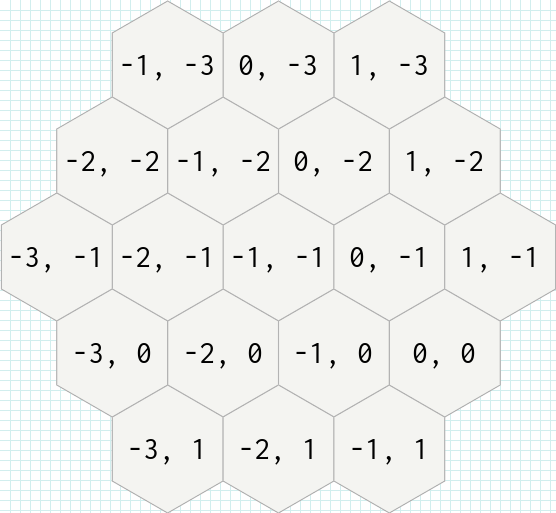
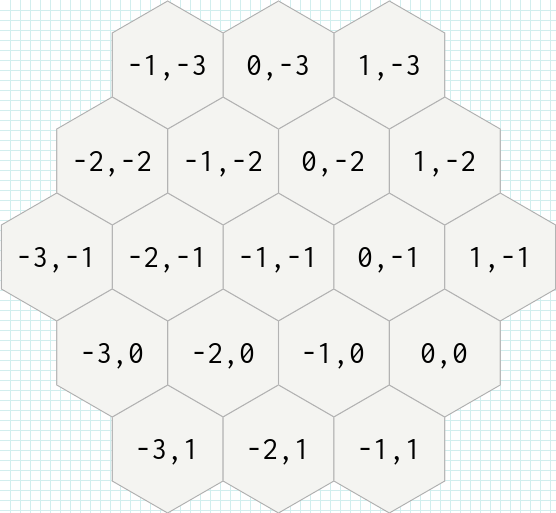
arrows

diff --git a/lib/rhex/draw/arrow.rb b/lib/rhex/draw/arrow.rb
@@ -1,0 +1,69 @@
+# frozen_string_literal: true
+
+module Rhex
+  module Draw
+    # Draws a direction arrow centered on the `from` hex, pointing towards the
+    # `to` hex. Used to visualize the order in which a path traverses hexes.
+    class Arrow
+      extend Forwardable
+
+      DEFAULT_CONFIG = {
+        color: "#1A1A1A",
+        stroke_color: "#1A1A1A",
+        # Roughly matches the rendered weight of the coordinate labels.
+        stroke_width: 2,
+        # Length of the arrow shaft as a fraction of the hex size.
+        length_ratio: 0.5,
+        # Length of each arrowhead barb as a fraction of the hex size.
+        head_ratio: 0.22,
+        # Half-angle of the arrowhead, in degrees.
+        head_angle: 28,
+      }.freeze
+
+      def initialize(gc:, from:, to:, config: DEFAULT_CONFIG)
+        @gc = gc
+        @from = from
+        @to = to
+        @config = config
+      end
+
+      def call
+        angle = Math.atan2(to.coordinates.y - from.coordinates.y, to.coordinates.x - from.coordinates.x)
+
+        # Center the arrow on the edge between the two hexes (their midpoint).
+        mid_x = (from.coordinates.x + to.coordinates.x) / 2.0
+        mid_y = (from.coordinates.y + to.coordinates.y) / 2.0
+
+        half = (from.size * config[:length_ratio]) / 2.0
+        tail_x = mid_x - (Math.cos(angle) * half)
+        tail_y = mid_y - (Math.sin(angle) * half)
+        tip_x = mid_x + (Math.cos(angle) * half)
+        tip_y = mid_y + (Math.sin(angle) * half)
+
+        gc.stroke(config[:stroke_color])
+        gc.stroke_width(config[:stroke_width])
+        gc.fill(config[:color])
+
+        gc.line(tail_x, tail_y, tip_x, tip_y)
+        draw_head(angle, tip_x, tip_y)
+      end
+
+      private
+
+      attr_reader :gc, :from, :to, :config
+
+      def draw_head(angle, tip_x, tip_y)
+        head_length = from.size * config[:head_ratio]
+        head_angle = config[:head_angle] * Rhex::Constants::DEG_TO_RAD
+
+        [angle - head_angle, angle + head_angle].each do |barb_angle|
+          gc.line(
+            tip_x, tip_y,
+            tip_x - (head_length * Math.cos(barb_angle)),
+            tip_y - (head_length * Math.sin(barb_angle))
+          )
+        end
+      end
+    end
+  end
+end

diff --git a/lib/rhex/grid_to_pic.rb b/lib/rhex/grid_to_pic.rb
@@ -17,11 +17,12 @@ module Rhex
     DEFAULT_ORIENTATION = FLAT_TOPPED
     DEFAULT_HEX_SIZE = 64
 
-    def initialize(grid, hex_size: DEFAULT_HEX_SIZE, orientation: DEFAULT_ORIENTATION)
+    def initialize(grid, hex_size: DEFAULT_HEX_SIZE, orientation: DEFAULT_ORIENTATION, path: nil)
       oriented_grid_class = Object.const_get(ORIENTED_GRIDS_MAPPER.fetch(orientation))
       oriented_grid = grid.to_grid(oriented_grid_class, hex_size: hex_size)
 
       @grid = oriented_grid
+      @path = path
       @canvas_markup = Rhex::CanvasMarkups::AutoCanvasMarkup.new(oriented_grid)
     end
 
@@ -30,12 +31,23 @@ module Rhex
 
       grid.each { |hex| Draw::Hexagon.new(gc: gc, hex: hex).call }
 
+      draw_path_arrows
+
       draw_and_save(filename)
     end
 
     private
 
-    attr_reader :grid, :canvas_markup
+    attr_reader :grid, :path, :canvas_markup
+
+    def draw_path_arrows
+      return if path.nil?
+
+      oriented_path = path.filter_map { |hex| grid.fetch(hex) }
+      oriented_path.each_cons(2) do |from, to|
+        Draw::Arrow.new(gc: gc, from: from, to: to).call
+      end
+    end
 
     def_delegators :canvas_markup, :center
     def_delegators :canvas_markup, :cols

diff --git a/spec/lib/rhex/draw/arrow_spec.rb b/spec/lib/rhex/draw/arrow_spec.rb
@@ -1,0 +1,34 @@
+# frozen_string_literal: true
+
+require "spec_helper"
+
+RSpec.describe(Rhex::Draw::Arrow) do
+  let(:from) { Rhex::Decorators::PointyToppedHex.new(Rhex::AxialHex.new(0, 0), size: 64) }
+  let(:to) { Rhex::Decorators::PointyToppedHex.new(Rhex::AxialHex.new(1, 0), size: 64) }
+  let(:gc) do
+    instance_double(
+      Magick::Draw,
+      fill: nil,
+      stroke: nil,
+      stroke_width: nil,
+      line: nil
+    )
+  end
+
+  describe "#call" do
+    it "draws the shaft and two arrowhead barbs pointing towards the target" do
+      described_class.new(gc: gc, from: from, to: to).call
+
+      # one shaft line + two arrowhead barbs
+      expect(gc).to(have_received(:line).exactly(3).times)
+    end
+
+    it "centers the shaft on the source hex" do
+      described_class.new(gc: gc, from: from, to: to).call
+
+      expect(gc).to(have_received(:line).with(
+        a_kind_of(Numeric), a_kind_of(Numeric), a_kind_of(Numeric), a_kind_of(Numeric)
+      ).at_least(:once))
+    end
+  end
+end

diff --git a/spec/lib/rhex/dfs_path_spec.rb b/spec/lib/rhex/dfs_path_spec.rb
@@ -39,7 +39,8 @@ RSpec.describe(Rhex::DfsPath) do
       source_hex.image_config = Rhex::ImageConfigs.image_config_for(:source)
       target_hex.image_config = Rhex::ImageConfigs.image_config_for(:target)
 
-      grid.merge(dfs_path_hexes).merge([source_hex, target_hex]).to_pic("dfs_path", orientation: :pointy_topped)
+      grid.merge(dfs_path_hexes).merge([source_hex, target_hex])
+        .to_pic("dfs_path", orientation: :pointy_topped, path: dfs_path_hexes)
     end
 
     context "when obstacles are defined" do
@@ -70,7 +71,7 @@ RSpec.describe(Rhex::DfsPath) do
         grid.merge(obstacles)
           .merge(path_hexes)
           .merge([source_hex, target_hex])
-          .to_pic("dfs_path_obstacles", orientation: :pointy_topped)
+          .to_pic("dfs_path_obstacles", orientation: :pointy_topped, path: path_hexes)
 
         expect(path.first).to(eq(source))
         expect(path.last).to(eq(target))

diff --git a/spec/lib/rhex/grid_to_pic_spec.rb b/spec/lib/rhex/grid_to_pic_spec.rb
@@ -19,6 +19,8 @@ RSpec.describe(Rhex::GridToPic) do
         :"font=" => nil,
         font_size: nil,
         text: nil,
+        line: nil,
+        stroke_width: nil,
         draw: nil
       )
     end
@@ -39,6 +41,15 @@ RSpec.describe(Rhex::GridToPic) do
       expect(imgl).to(receive(:write).with(Rhex.root.join("images", "example.png").to_s))
 
       described_class.new(hex_grid, hex_size: 2).call("example")
+    end
+
+    it "draws direction arrows along the given path" do
+      hex_grid = grid(1)
+      path = [Rhex::AxialHex.new(0, 0), Rhex::AxialHex.new(1, 0)]
+
+      expect(gc).to(receive(:line).at_least(:once))
+
+      described_class.new(hex_grid, hex_size: 2, path: path).call("example")
     end
 
     it "raises on invalid filename" do

diff --git a/spec/lib/rhex/bfs_path_spec.rb b/spec/lib/rhex/bfs_path_spec.rb
@@ -35,7 +35,7 @@ RSpec.describe(Rhex::BfsPath) do
 
       grid.merge(path_hexes)
         .merge([source_hex, target_hex])
-        .to_pic("bfs_path", orientation: :pointy_topped)
+        .to_pic("bfs_path", orientation: :pointy_topped, path: path_hexes)
     end
 
     context "when obstacles are defined" do
@@ -71,7 +71,7 @@ RSpec.describe(Rhex::BfsPath) do
         grid.merge(obstacles)
           .merge(path_hexes)
           .merge([source_hex, target_hex])
-          .to_pic("bfs_path_obstacles", orientation: :pointy_topped)
+          .to_pic("bfs_path_obstacles", orientation: :pointy_topped, path: path_hexes)
 
         expect(shortest_path.first).to(eq(source))
         expect(shortest_path.last).to(eq(target))

diff --git a/lib/rhex/grid.rb b/lib/rhex/grid.rb
@@ -73,9 +73,10 @@ module Rhex
     def to_pic(
       filename,
       hex_size: Rhex::GridToPic::DEFAULT_HEX_SIZE,
-      orientation: Rhex::GridToPic::DEFAULT_ORIENTATION
+      orientation: Rhex::GridToPic::DEFAULT_ORIENTATION,
+      path: nil
     )
-      Rhex::GridToPic.new(self, hex_size: hex_size, orientation: orientation).call(filename)
+      Rhex::GridToPic.new(self, hex_size: hex_size, orientation: orientation, path: path).call(filename)
     end
 
     def to_grid(klass = Rhex::Grid, *args, **kwargs, &)

diff --git a/spec/lib/rhex/draw/hexagon_spec.rb b/spec/lib/rhex/draw/hexagon_spec.rb
@@ -28,7 +28,7 @@ RSpec.describe(Rhex::Draw::Hexagon) do
       expect(gc).to(have_received(:polygon)) do |*args|
         expect(args.length).to(eq(12))
       end
-      expect(gc).to(have_received(:text).with(hex.coordinates.x, a_kind_of(Numeric), include("0, 0")))
+      expect(gc).to(have_received(:text).with(hex.coordinates.x, a_kind_of(Numeric), include("0,0")))
     end
 
     it "does not run the contract when using the cached default config" do

diff --git a/spec/lib/rhex/grid_spec.rb b/spec/lib/rhex/grid_spec.rb
@@ -130,7 +130,7 @@ RSpec.describe(Rhex::Grid) do
       grid_to_pic = instance_double(Rhex::GridToPic, call: true)
       expect(Rhex::GridToPic)
         .to(receive(:new).with(grid, hex_size: Rhex::GridToPic::DEFAULT_HEX_SIZE,
-          orientation: Rhex::GridToPic::DEFAULT_ORIENTATION)
+          orientation: Rhex::GridToPic::DEFAULT_ORIENTATION, path: nil)
         .and_return(grid_to_pic))
 
       grid.to_pic("file")

diff --git a/spec/lib/rhex/astar_path_spec.rb b/spec/lib/rhex/astar_path_spec.rb
@@ -41,7 +41,7 @@ RSpec.describe(Rhex::AstarPath) do
         target.image_config = Rhex::ImageConfigs.image_config_for(:target)
 
         grid.merge([obstacle]).merge(path_hexes).merge([source, target])
-          .to_pic("astar_path", orientation: :pointy_topped)
+          .to_pic("astar_path", orientation: :pointy_topped, path: path_hexes)
       end
     end
 

diff --git a/lib/rhex/draw/hexagon.rb b/lib/rhex/draw/hexagon.rb
@@ -71,7 +71,7 @@ module Rhex
 
         gc.text(
           coordinates.x, coordinates.y + (config[:font_size] / Math::PI),
-          "#{hex.q}, #{hex.r}"
+          "#{hex.q},#{hex.r}"
         )
       end
 

diff --git a/README.md b/README.md
@@ -244,6 +244,11 @@ path = grid.bfs_path(source, target, obstacles: obstacles)
   - Builds an oriented grid (`:flat_topped` by default) and centers it automatically using `CanvasMarkups::AutoCanvasMarkup`.
   - Draws each hex through `Rhex::Draw::Hexagon`, labeling it with its `q, r` coordinates.
   - Saves the image to `images/filename.png` inside the gem/project root.
+- Pass an ordered list of hexes via `path:` to draw a direction arrow on each hex pointing towards the next one in the path (drawn through `Rhex::Draw::Arrow`):
+```ruby
+path = grid.bfs_path(source, target)
+grid.to_pic("bfs_path", orientation: :pointy_topped, path: path)
+```
 - Default colors come from `Rhex::Draw::Hexagon::DEFAULT_IMAGE_CONFIG`. You can override per hex:
 ```ruby
 config = Rhex::Draw::Hexagon::ImageConfig.new(
